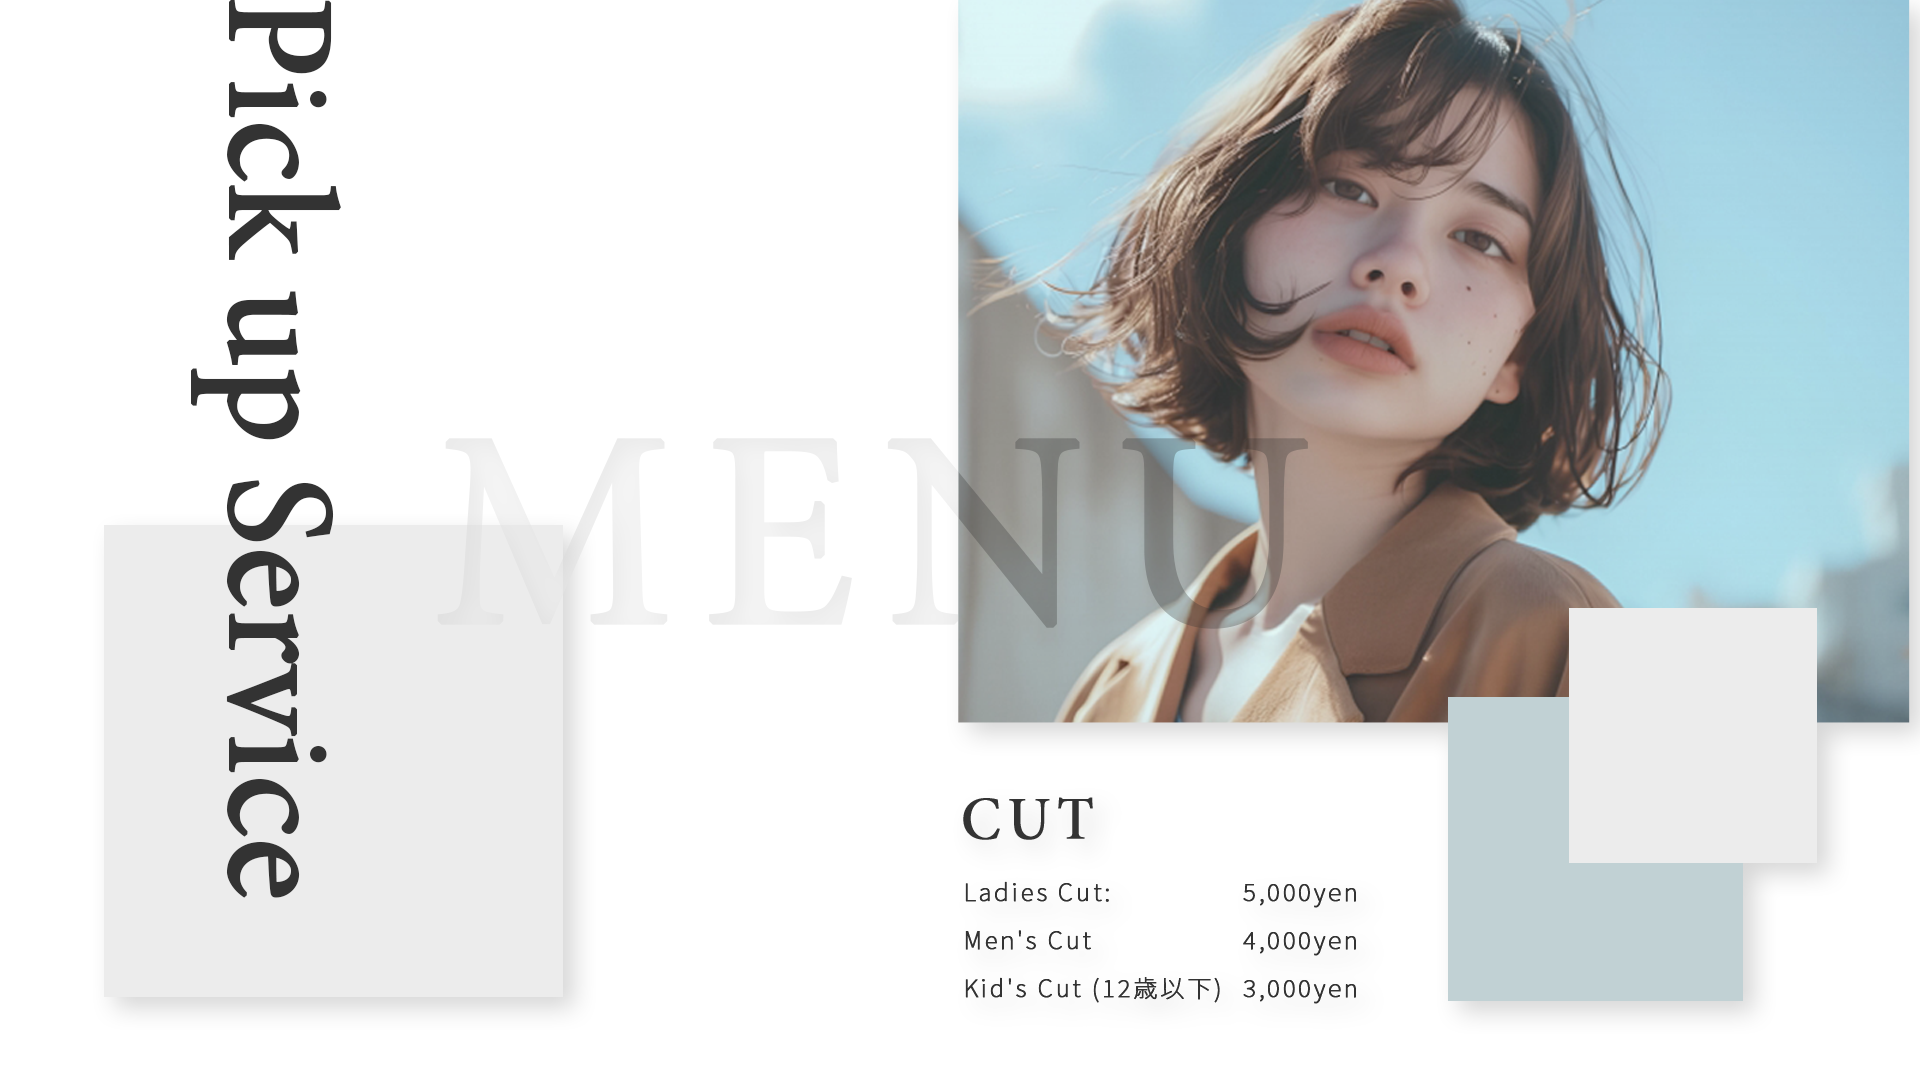
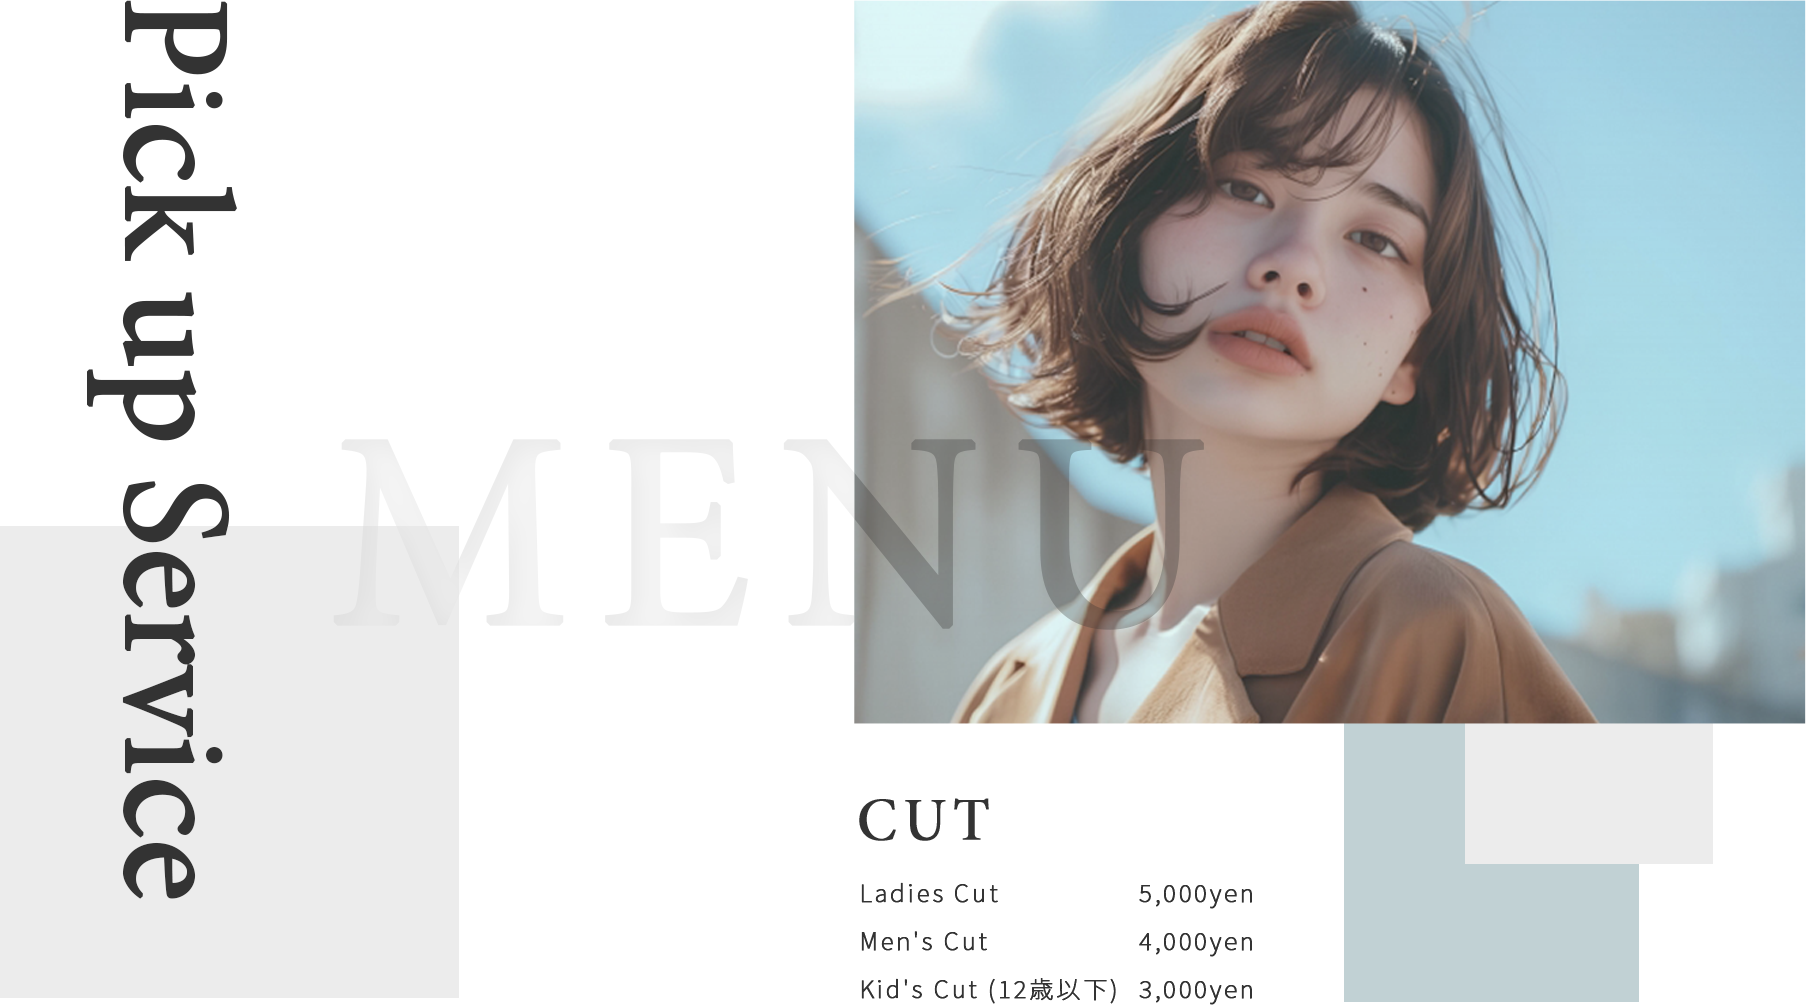
add comment

diff --git a/css/style.css b/css/style.css
@@ -41,13 +41,6 @@ h2{
   font-weight:normal;
 }
 
-.wrapper{
-  overflow:hidden
-}
-
-section{
-  margin: 10rem 0;
-}
 
 .title{
   text-align: center;
@@ -55,6 +48,7 @@ section{
   font-family: "minion-pro", serif;
   font-weight: 400;
   font-style: normal;
+  margin-top: -5rem;
 }
 
 
@@ -118,24 +112,81 @@ div[class$="__text"],
 /* --------------------------------- */
 /* conA */
 
+.conA,
+.conA__image{
+  min-height: 1080px;
+  height: 150vh;
+}
+
+.loading {
+  width: 100vw;
+  height: 100vh;
+  transition: all 1s;
+  background: linear-gradient(to bottom, transparent 0%, transparent 70%, #fff 100%), url(../img/top1.png);
+  background-repeat: no-repeat;
+  background-size: 100%;
+  position: fixed;
+  top: 0;
+  left: 0;
+  z-index: 9999;
+  opacity: 1;
+  visibility: visible;
+  background-position: center bottom;
+}
+
+.main{
+  position: absolute;
+  top:30%;
+  right: 0;
+}
+
+.photo3{
+  width: 100%;
+ display: flex;
+ justify-content: flex-end;
+ text-align: center; 
+}
+.photo3__image{
+  margin: 0 1rem;
+}
+
+
+
+.loading.is-active {
+  opacity: 0;
+  visibility: hidden;
+}
+
+.loading-animation {
+  width: 100vw;
+  height: 90vh;
+  transition: all 1s;
+  background-image: url(../img/top2.png);
+  background-repeat: no-repeat;
+  background-size: 100%;
+  z-index: 9999;
+  display: flex;
+  align-items: flex-end;
+  justify-content: flex-end;
+  opacity: 0;
+  visibility: hidden;
+  background-position: center center;
+}
+
+.loading-animation.is-active {
+  opacity: 1;
+  visibility: visible;
+}
+
+
 
 .conA {
-    display: flex;
-    align-items: center;
-    justify-content: center;
+    display: block;
     height: 100vh;
     min-height: 450px;
     position: relative;
-    /* 横幅をフィットさせる */
-    min-width:fit-content; 
-    /* background-image: url(../img/dummy.jpg); */
-    text-align: center;
-    color: var(--text-bright-color);
-    background: linear-gradient(to bottom, transparent 0%, transparent 70%, #fff 100%), url(../img/top__pc.png);
-    background-repeat: no-repeat;
-    background-position: center bottom;
-    background-size: cover;
-}
+  }
+
   .conA .container{
     position: relative;
   }
@@ -157,6 +208,8 @@ div[class$="__text"],
 
     text-align: left;
   }
+
+
 
 /* conA */
 /* --------------------------------- */
@@ -188,6 +241,8 @@ div[class$="__text"],
 /* --------------------------------- */
 /* conC */
 
+
+
 .conC {
   display: flex;
   align-items: center;
@@ -201,6 +256,7 @@ div[class$="__text"],
   background-repeat: no-repeat;
   background-position: center center;
   background-size: cover;
+  margin: 10rem 0;
 }
 
 .original-box-shadow {
@@ -229,6 +285,11 @@ div[class$="__text"],
 /* --------------------------------- */
 /* conD */
 
+.conD{
+  margin: 0;
+}
+
+
 .conD__image {
   height: 100vh;
   min-height: 300px;
@@ -237,15 +298,14 @@ div[class$="__text"],
   background-position: center top;
   background-size: 100%;
   object-fit: cover;
-  padding-bottom: 20rem;
+  padding-bottom: 15rem;
 }
 
 /* conD */
 /* --------------------------------- */
 /* conE */
-
 .conE{
-  margin-top: -10rem;
+  margin: 0;
 }
 
 .conE__box{
@@ -346,6 +406,7 @@ div[class$="__text"],
   background-repeat: no-repeat;
   background-position: center top;
   background-size: cover;
+  margin-top: -10rem;
 }
 
 .conH__image{
@@ -587,6 +648,34 @@ div[class$="__text"],
  line-height: 2rem;
 }
 
+.loading{
+  background-image: url(../img/top__phoneA.png);
+  margin: 0;
+  display: flex;
+  justify-content: center;
+  align-items: center;
+  background-position: center top;
+  background-size: 100%;
+}
+
+.loading-animation{
+  background-image: url(../img/top__phoneB.png);
+  margin: 0;
+  display: flex;
+  justify-content: center;
+  align-items: center;
+  background-position: center top;
+  background-size: contain;
+}
+
+.main{
+  display: none;
+}
+
+.photo3{
+  display:none;
+}
+
 
 .conB__image{
   top: 50%;
@@ -654,12 +743,13 @@ div[class$="__text"],
 
 .conH {
   min-height: 200px;
+  margin: 3rem 0;
 }
 
 .conH__text{
   width: 80%;
   position: absolute;
-  top: 7%;
+  top: 68%;
   left: 50%;
 }
 
@@ -681,23 +771,11 @@ div[class$="__text"],
 }
 
 .conA{
-  background-image: url(../img/top.png);
-  width: 100%;
-  height: auto;
-  min-height: 700px;
-  background-repeat: no-repeat;
-  background-position: center bottom;
-  background-size: 100%;
-  background-attachment: fixed;
+  width: 100vw;
 }
 .conA::before{
   background:none;
 }
-
-.conA__image{
-  width: 100%;
-}
-
   
 
 /* --------------------------------- */

diff --git a/js/main.js b/js/main.js
@@ -16,3 +16,44 @@ if(window.matchMedia("(max-width: 768px)").matches){
       });
 
   }
+
+  $(function () {
+
+    var webStorage = function () {
+  
+      if (sessionStorage.getItem('access')) {
+  
+        /*
+          2回目以降アクセス時の処理
+        */
+  
+        $(".loading-animation").addClass('is-active'); // loadingアニメーションを表示
+        $(".loading").addClass('is-active');
+        
+  
+      } else {
+  
+        /*
+          初回アクセス時の処理
+        */
+  
+        sessionStorage.setItem('access', 'true'); // sessionStorageにデータを保存
+  
+        $(".loading-animation").addClass('is-active'); // loadingアニメーションを表示
+  
+        setTimeout(function () {
+  
+          // ローディングを数秒後に非表示にする
+  
+          $(".loading").addClass('is-active');
+          //$(".loading-animation").removeClass('is-active');
+  
+        }, 5000); // ローディングを表示する時間
+  
+      }
+  
+    }
+  
+    webStorage();
+    
+  });

diff --git a/index.html b/index.html
@@ -59,7 +59,25 @@
         </div>
     </header>
 
-    <div class="conA"></div>
+    <div class="conA">
+
+      <div class="conA__box">
+
+        <div class="loading conA__image"></div>
+      
+        <div class="loading-animation conA__image">
+
+            <div class="main"><a href="#"><img class="main__image" src="img/main.png"></a></div>
+
+            <div class="photo3">
+              <img class="photo3__image" src="img/sampleA.png">
+              <img class="photo3__image" src="img/sampleB.png">
+              <img class="photo3__image" src="img/sampleC.png">
+            </div>
+
+        </div>
+
+    </div>
 
     <section class="conB">
         <div class="container">
